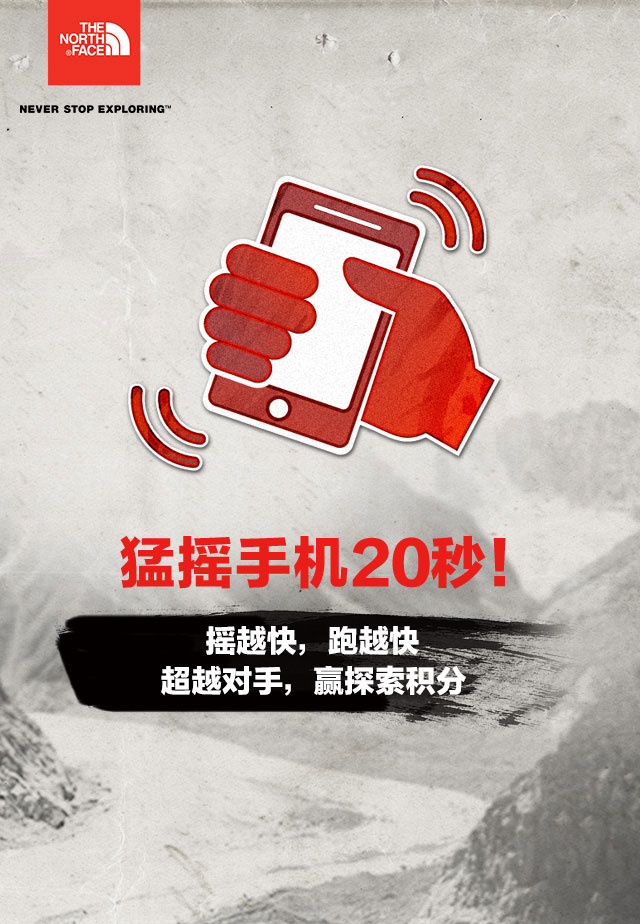
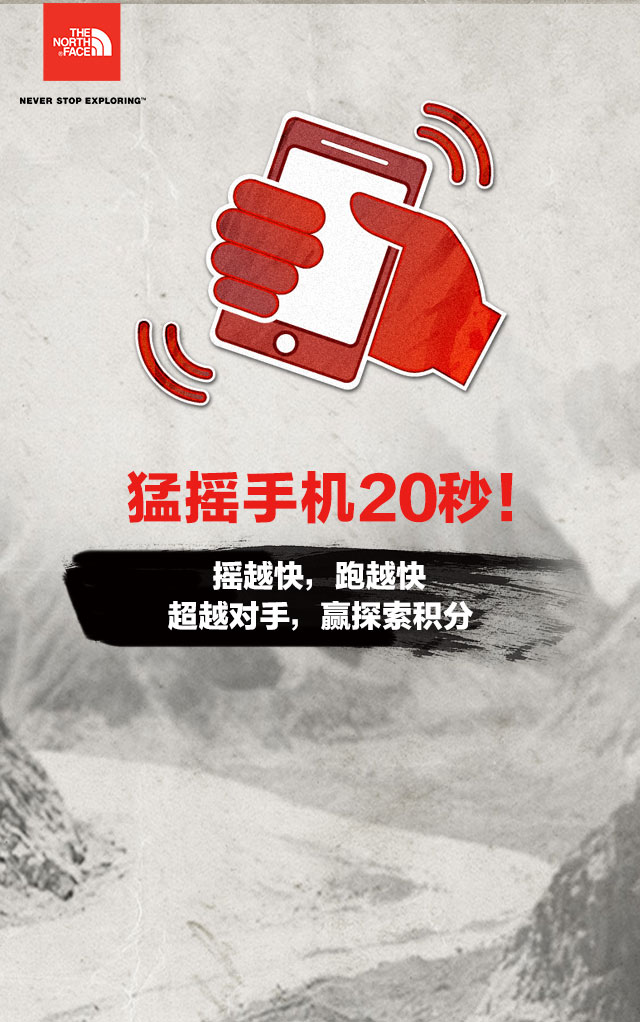
update

diff --git a/www/js/mt.js b/www/js/mt.js
@@ -403,7 +403,7 @@ function fntRun(){
     
     //the hard game level
     var defLevel = fRandomBy(1,100);
-    if(defLevel>29){
+    if(defLevel>39){
       fntA.gameLevel = 2;
     }else{
       fntA.gameLevel = 1;
@@ -493,9 +493,9 @@ function fntRun(){
     function start() {
       
       fntA.moveA = 1;
-      fntA.moveB = 5;
+      fntA.moveB = 20;
       fntA.allmoveA = 0;
-      fntA.allmoveB = 0;
+      fntA.allmoveB = 80;
       fntA.alltimes = 0;
       fntA.alltimesB = 0;
       fntA.shakeEng = 0;
@@ -643,24 +643,51 @@ function fntRun(){
       }
       //Game AI
       if(fntA.gameLevel ===1 ){
-        if( (fntA.allmoveA - fntA.allmoveB) >20 ){
-          fntA.moveB = fntA.moveB * 1.05;
-        }
-        if( (fntA.allmoveB - fntA.allmoveA) >100 ){
-          fntA.moveB = fntA.moveB * 0.9992;
-        }
-        fntA.moveB = Math.min( 12, Math.max(10,fntA.moveB));
+        if (fntA.allmoveB < 2000) {
+          if( (fntA.allmoveA - fntA.allmoveB) >200 ){
+            fntA.moveB = fntA.moveB * 1.05;
+            fntA.moveB = Math.min( 16, Math.max(12,fntA.moveB));
+          }
+          if( (fntA.allmoveB - fntA.allmoveA) >100 ){
+            fntA.moveB = fntA.moveB * 0.9992;
+            fntA.moveB = Math.min( 18, Math.max(5,fntA.moveB));
+          }
+        }else{
+          if( (fntA.allmoveA - fntA.allmoveB) >1000 ){
+            fntA.moveB = fntA.moveB * 1.05;
+            fntA.moveB = Math.min( 14, Math.max(8,fntA.moveB));
+          }
+          if( (fntA.allmoveB - fntA.allmoveA) >100 ){
+            fntA.moveB = fntA.moveB * 0.9992;
+            fntA.moveB = Math.min( 12, Math.max(5,fntA.moveB));
+          }
+          fntA.moveB = Math.min( 14, Math.max(5,fntA.moveB));
+        };
+        
+        
       }else if(fntA.gameLevel ===2){
-        if( (fntA.allmoveA - fntA.allmoveB) >5 ){
-          fntA.moveB = fntA.moveB * 1.05;
+        if (fntA.allmoveB < 1600) {
+          if( (fntA.allmoveA - fntA.allmoveB) >200 ){
+            fntA.moveB = fntA.moveB * 1.05;
+            fntA.moveB = Math.min( 16, Math.max(12,fntA.moveB));
+          }
+          if( (fntA.allmoveB - fntA.allmoveA) >100 ){
+            fntA.moveB = fntA.moveB * 0.9992;
+            fntA.moveB = Math.min( 18, Math.max(5,fntA.moveB));
+          }
+        }else{
+          if( (fntA.allmoveA - fntA.allmoveB) >5 ){
+            fntA.moveB = fntA.moveB * 1.05;
+          }
+          if( (fntA.allmoveA - fntA.allmoveB) >150 ){
+            fntA.moveB = fntA.moveB * 1.29;
+          }
+          if( (fntA.allmoveB - fntA.allmoveA) >200 ){
+            fntA.moveB = fntA.moveB * 0.9992;
+          }
+          fntA.moveB = Math.min( 14, Math.max(6,fntA.moveB));
         }
-        if( (fntA.allmoveA - fntA.allmoveB) >250 ){
-          fntA.moveB = fntA.moveB * 1.29;
-        }
-        if( (fntA.allmoveB - fntA.allmoveA) >1000 ){
-          fntA.moveB = fntA.moveB * 0.9992;
-        }
-        fntA.moveB = Math.min( 13, Math.max(6,fntA.moveB));
+ 
       }
       // var tmpPlayerTopa , tmpPlayerTopb;
       // tmpPlayerTopa = 320 - fntA.moveA*8;
@@ -745,7 +772,7 @@ function fntRun(){
           fntA.moveA = 2;
         }
         if(fntA.shakeEng<30){
-          fntA.shakeEng = fntA.shakeEng + 8 ;
+          fntA.shakeEng = fntA.shakeEng + 6 ;
         }
 
         break;

diff --git a/www/js/single.js b/www/js/single.js
@@ -146,7 +146,7 @@ function postGameRecordSingle(record){
   
   如果没有获奖则coupon_code为空。
   */
-  var postData = 'game_type=1&score='+record ;
+  var postData = 'type=1&score='+record ;
   var tempIp = 'http://www.quyeba.com/event/explorerchallenge/';
   console.log(postData);
 
@@ -171,7 +171,7 @@ function postGameRecordSingle(record){
 }
 //game/reward
 function postGameRewardSingle(record){ 
-  var postData = 'game_type=1&score='+record + '&game_id=' + fntA.game_id;
+  var postData = 'type=1&score='+record + '&game_id=' + fntA.game_id;
   var tempIp = 'http://www.quyeba.com/event/explorerchallenge/';
   console.log(postData);
 

diff --git a/www/m.html b/www/m.html
@@ -28,9 +28,9 @@ body
  word-wrap: break-word;
  -webkit-text-size-adjust: none;
  height: 100%;
- min-height: 460px;
+ min-height: 510px;
  background:#fcfcfc url(img/m_bg.jpg) top center no-repeat;
- background-size: 320px 462px;
+ background-size: 320px 510px;
 }
 h1, h2, h3, h4, h5, h6{ font-weight: normal; padding: 0; margin: 0; }
 p img { float: left; margin: 0 10px 5px 0; padding: 0; }
